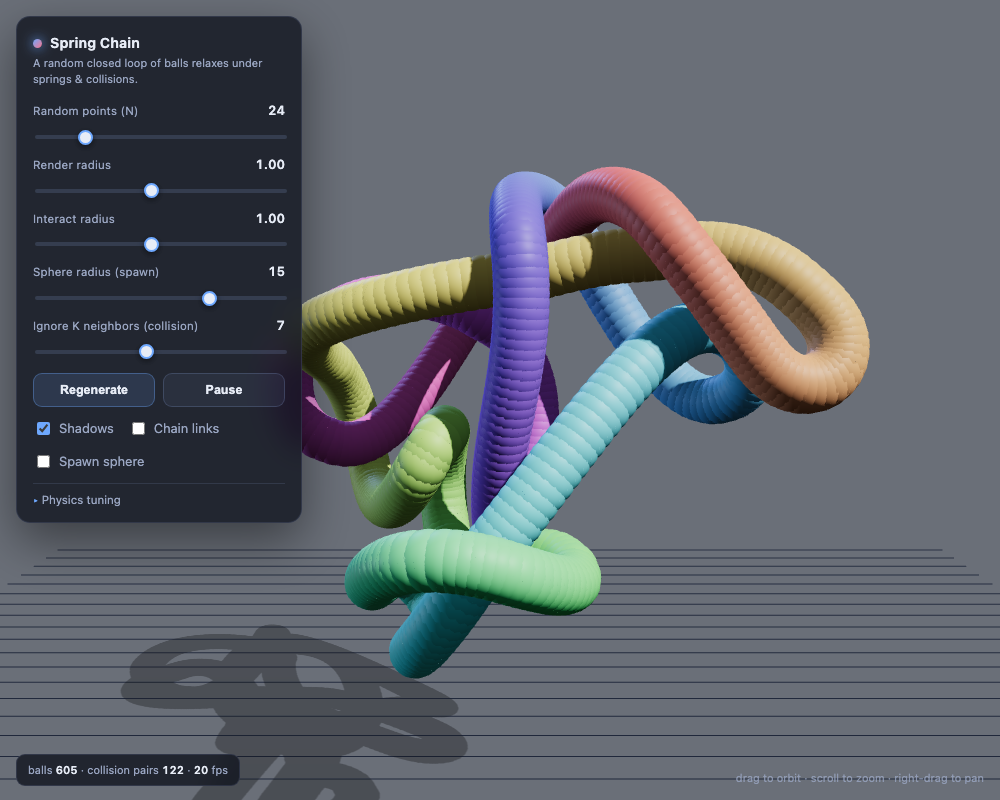
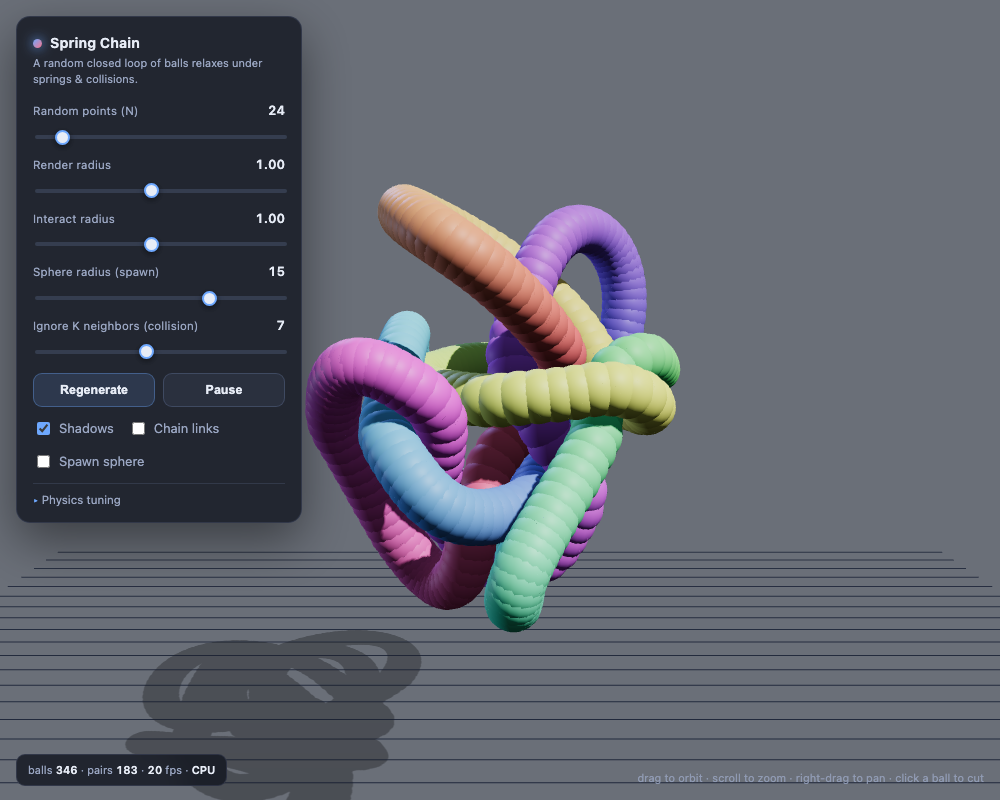
Default LOD off; keep per-ball colors stable across cuts
- LOD merge/split is now off by default (checkbox unchecked).
- Color is a persistent per-ball hue (assigned once as the rainbow) carried
  through removals and LOD, so cutting a ball no longer reshuffles the palette —
  surviving balls keep their colors; split midpoints interpolate.
- Refresh hero image for the LOD-off default.

Changed region(s): [[0.0, 0.1875, 1.0, 1.0], [0.031, 0.1562, 0.093, 0.1875]]

diff --git a/index.html b/index.html
@@ -163,7 +163,7 @@
     <summary>Physics tuning</summary>
     <div class="field" style="margin-top:10px; margin-bottom:8px">
       <label style="display:flex; align-items:center; gap:6px; color:var(--ink-dim); cursor:pointer">
-        <input type="checkbox" id="lodEnabled" checked style="accent-color:var(--accent)" />
+        <input type="checkbox" id="lodEnabled" style="accent-color:var(--accent)" />
         LOD (merge / split)
       </label>
     </div>
@@ -332,7 +332,7 @@ const cfg = {
   interact: 1.0,        // interaction radius: collision happens within 2·interact; drives LOD spacing
   sphere: 15,
   ignoreK: 7,
-  lodEnabled: true,     // run the adaptive merge/split pass
+  lodEnabled: false,    // run the adaptive merge/split pass
   mergeRatio: 0.3,      // LOD: drop a ball when a chain edge is shorter than this × interact radius
   splitRatio: 0.6,      // LOD: insert a ball when a chain edge is longer than this × interact radius
   spring: 0.6,
@@ -364,9 +364,14 @@ let vel = new Float32Array(MAX_BALLS * 3);
 // cycle into open segments. `topoClosed` is true only for the untouched loop.
 let bond = new Uint32Array(MAX_BALLS);
 let topoClosed = true;
+// Per-ball hue, assigned once as the rainbow gradient and then carried through
+// removals/LOD so a ball keeps its color (cutting doesn't reshuffle the palette).
+let hue = new Float32Array(MAX_BALLS);
+let colorsDirty = true;
 const posScratch = new Float32Array(MAX_BALLS * 3);
 const velScratch = new Float32Array(MAX_BALLS * 3);
 const bondScratch = new Uint32Array(MAX_BALLS);
+const hueScratch = new Float32Array(MAX_BALLS);
 const pendingRemovals = [];   // ball indices clicked, processed one per frame
 let ballCount = 0;
 let lastPairCount = 0;
@@ -448,8 +453,10 @@ function buildChain() {
     pos[i * 3 + 2] = centers[i].z;
     vel[i * 3 + 0] = vel[i * 3 + 1] = vel[i * 3 + 2] = 0;
     bond[i] = 1;                       // fresh closed loop: every ball bonded onward
+    hue[i] = i / ballCount;            // one full turn of hue around the cycle
   }
   topoClosed = true;
+  colorsDirty = true;
   pendingRemovals.length = 0;
   recenter();
   rebuildLinkLine();
@@ -621,22 +628,23 @@ function applyLOD() {
 
   let m = 0;                                 // balls written to scratch
   // `bondedToPrev` records the edge from the previously-pushed ball to this one.
-  const push = (x, y, z, vx, vy, vz, bondedToPrev) => {
+  const push = (x, y, z, vx, vy, vz, h, bondedToPrev) => {
     if (m >= MAX_BALLS) return;
     if (m > 0) bondScratch[m - 1] = bondedToPrev ? 1 : 0;
     const o = m * 3;
     posScratch[o] = x; posScratch[o + 1] = y; posScratch[o + 2] = z;
     velScratch[o] = vx; velScratch[o + 1] = vy; velScratch[o + 2] = vz;
+    hueScratch[m] = h;
     m++;
   };
 
-  push(pos[0], pos[1], pos[2], vel[0], vel[1], vel[2], false);
+  push(pos[0], pos[1], pos[2], vel[0], vel[1], vel[2], hue[0], false);
 
   for (let i = 1; i < n; i++) {
     const io = i * 3;
     const ix = pos[io], iy = pos[io + 1], iz = pos[io + 2];
     if (!bond[i - 1]) {                       // cut before i: start a new segment
-      push(ix, iy, iz, vel[io], vel[io + 1], vel[io + 2], false);
+      push(ix, iy, iz, vel[io], vel[io + 1], vel[io + 2], hue[i], false);
       continue;
     }
     const lo = (m - 1) * 3;                    // last kept ball (same segment)
@@ -650,9 +658,10 @@ function applyLOD() {
       push((lx + ix) * 0.5, (ly + iy) * 0.5, (lz + iz) * 0.5,
            (velScratch[lo] + vel[io]) * 0.5,
            (velScratch[lo + 1] + vel[io + 1]) * 0.5,
-           (velScratch[lo + 2] + vel[io + 2]) * 0.5, true);
+           (velScratch[lo + 2] + vel[io + 2]) * 0.5,
+           (hueScratch[m - 1] + hue[i]) * 0.5, true);
     }
-    push(ix, iy, iz, vel[io], vel[io + 1], vel[io + 2], true);
+    push(ix, iy, iz, vel[io], vel[io + 1], vel[io + 2], hue[i], true);
   }
 
   // Final edge. For the pristine closed loop it's the wrap edge back to ball 0
@@ -672,7 +681,8 @@ function applyLOD() {
            (posScratch[lo + 2] + posScratch[2]) * 0.5,
            (velScratch[lo] + velScratch[0]) * 0.5,
            (velScratch[lo + 1] + velScratch[1]) * 0.5,
-           (velScratch[lo + 2] + velScratch[2]) * 0.5, true);
+           (velScratch[lo + 2] + velScratch[2]) * 0.5,
+           (hueScratch[m - 1] + hueScratch[0]) * 0.5, true);
       bondScratch[m - 1] = 1;
     } else {
       bondScratch[m - 1] = 1;                  // wrap edge present
@@ -684,6 +694,8 @@ function applyLOD() {
   pos.set(posScratch.subarray(0, m * 3));
   vel.set(velScratch.subarray(0, m * 3));
   bond.set(bondScratch.subarray(0, m));
+  hue.set(hueScratch.subarray(0, m));
+  colorsDirty = true;
   if (m !== ballCount) document.getElementById('ballCount').textContent = m;
   ballCount = m;
 }
@@ -701,12 +713,14 @@ function performRemoval(r) {
       posScratch[o] = pos[so]; posScratch[o + 1] = pos[so + 1]; posScratch[o + 2] = pos[so + 2];
       velScratch[o] = vel[so]; velScratch[o + 1] = vel[so + 1]; velScratch[o + 2] = vel[so + 2];
       bondScratch[k] = 1;
+      hueScratch[k] = hue[src];                // keep each surviving ball's color
       k++;
     }
     bondScratch[k - 1] = 0;                    // open end, no wrap
     pos.set(posScratch.subarray(0, k * 3));
     vel.set(velScratch.subarray(0, k * 3));
     bond.set(bondScratch.subarray(0, k));
+    hue.set(hueScratch.subarray(0, k));
     ballCount = k;
     topoClosed = false;
   } else {
@@ -715,6 +729,7 @@ function performRemoval(r) {
       const o = k * 3, so = (k + 1) * 3;
       pos[o] = pos[so]; pos[o + 1] = pos[so + 1]; pos[o + 2] = pos[so + 2];
       vel[o] = vel[so]; vel[o + 1] = vel[so + 1]; vel[o + 2] = vel[so + 2];
+      hue[k] = hue[k + 1];
     }
     const newN = n - 1;
     for (let k = 0; k < newN; k++) {
@@ -723,14 +738,13 @@ function performRemoval(r) {
     bond.set(bondScratch.subarray(0, newN));
     ballCount = newN;
   }
+  colorsDirty = true;
   document.getElementById('ballCount').textContent = ballCount;
 }
 
 // ---------------------------------------------------------------------------
 // Rendering sync
 // ---------------------------------------------------------------------------
-let colorN = -1;   // ball count the instance colors were last written for
-
 function syncInstances() {
   const n = ballCount;
   instMesh.count = n;
@@ -747,12 +761,12 @@ function syncInstances() {
   }
   instMesh.instanceMatrix.needsUpdate = true;
 
-  // Hue makes one full turn around the cycle. It only depends on i/n, so we only
-  // rewrite it when the ball count changes (every frame would be wasted work).
-  if (n !== colorN) {
-    for (let i = 0; i < n; i++) instMesh.setColorAt(i, tmpColor.setHSL(i / n, 0.78, 0.55));
+  // Colors come from each ball's persistent hue (so cuts/LOD keep ball colors
+  // stable). Only rewritten when the hue array changed, not every frame.
+  if (colorsDirty) {
+    for (let i = 0; i < n; i++) instMesh.setColorAt(i, tmpColor.setHSL(hue[i], 0.78, 0.55));
     if (instMesh.instanceColor) instMesh.instanceColor.needsUpdate = true;
-    colorN = n;
+    colorsDirty = false;
   }
 }
 
@@ -1225,6 +1239,7 @@ window.__dbg = {
   get pos() { return pos; },
   get n() { return ballCount; },
   get bond() { return bond; },
+  get hue() { return hue; },
   get topoClosed() { return topoClosed; },
   bondCount() { let s = 0; for (let i = 0; i < ballCount; i++) s += bond[i]; return s; },
   queueRemoval(i) { pendingRemovals.push(i); },   // simulate a click on ball i
